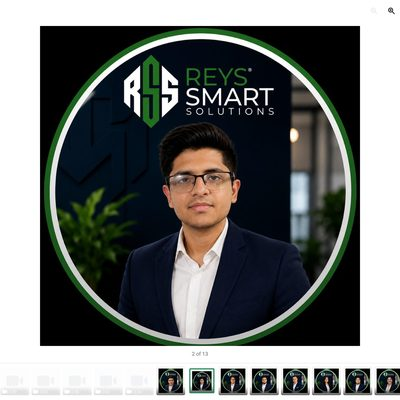
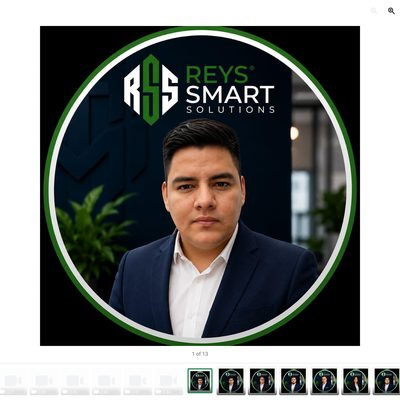
fix(team): correct all photo-name assignments per client verification
Client confirmed each photo. Corrections made:
- maikel.jpg → was Doris Bonilla (photo says Maikel but it's her)
- carolina-dominguez.jpg → was Nelson Mejivar
- nelson-mejivar.jpg → was Diego Quijada
- diego-quijada.jpg → was Judit Mejivar
- fatima-santos.jpg → was Carolina Dominguez
- eduardo-peron.jpg → was Abigail Gochez
- christopher-aaron.jpg → was Eduardo Peron (civilian clothes)

Removed duplicates and incorrect photos.
Maikel, Jacob, Christopher, Fatima: no photo → avatar with initials.
Jacob Mejivar photo still missing.

diff --git a/src/components/landing/TeamCarousel.tsx b/src/components/landing/TeamCarousel.tsx
@@ -8,17 +8,18 @@ import { ChevronLeft, ChevronRight, Star } from 'lucide-react';
 const TEAM = [
   { name: 'Reys Michel', role: 'Presidente y Cofundador', roleEn: 'President & Co-Founder', photo: '/team/reys-michel.jpg', featured: true },
   { name: 'Yolanda Perón', role: 'Vicepresidenta y Cofundadora', roleEn: 'Vice President & Co-Founder', photo: '/team/yolanda-peron.jpg', featured: true },
-  { name: 'Nelson Mejivar', role: 'Subdirector General', roleEn: 'General Sub-Director', photo: '/team/member-1.jpg' },
+  { name: 'Nelson Mejivar', role: 'Subdirector General', roleEn: 'General Sub-Director', photo: '/team/nelson-mejivar.jpg' },
   { name: 'Vladimir Cáceres', role: 'Subdirector Comercial', roleEn: 'Commercial Sub-Director', photo: '/team/vladimir-caceres.jpg' },
-  { name: 'Diego Quijada', role: 'Subdirector de Ventas', roleEn: 'Sales Sub-Director', photo: '/team/member-2.jpg' },
-  { name: 'Judit Mejivar', role: 'Subdirectora de Procesos', roleEn: 'Process Sub-Director', photo: '/team/member-3.jpg' },
-  { name: 'Maikel', role: 'El Arquitecto de las Finanzas', roleEn: 'The Finance Architect', photo: '/team/member-4.jpg' },
-  { name: 'Carolina Domínguez', role: 'Subdirectora de Capacitaciones y RRHH', roleEn: 'Training & HR Sub-Director', photo: '/team/member-5.jpg' },
-  { name: 'Jacob Mejivar', role: 'Depto. de Agencias de Crédito', roleEn: 'Credit Agencies Dept.', photo: '/team/member-6.jpg' },
-  { name: 'Christopher Aaron', role: 'Depto. de Acreedores', roleEn: 'Creditors Dept.', photo: '/team/member-7.jpg' },
-  { name: 'Fátima Santos', role: 'Depto. de Procesos', roleEn: 'Process Dept.', photo: '/team/member-8.jpg' },
-  { name: 'Abigail Gochez', role: 'Depto. de Procesos', roleEn: 'Process Dept.', photo: '/team/member-9.jpg' },
-  { name: 'Doris Bonilla', role: 'Depto. de Redes Sociales y Eventos', roleEn: 'Social Media & Events Dept.', photo: '/team/member-10.jpg' },
+  { name: 'Diego Quijada', role: 'Subdirector de Ventas', roleEn: 'Sales Sub-Director', photo: '/team/diego-quijada.jpg' },
+  { name: 'Judit Mejivar', role: 'Subdirectora de Procesos', roleEn: 'Process Sub-Director', photo: '/team/judit-mejivar.jpg' },
+  { name: 'Maikel', role: 'El Arquitecto de las Finanzas', roleEn: 'The Finance Architect', photo: null },
+  { name: 'Carolina Domínguez', role: 'Subdirectora de Capacitaciones y RRHH', roleEn: 'Training & HR Sub-Director', photo: '/team/carolina-dominguez.jpg' },
+  { name: 'Jacob Mejivar', role: 'Depto. de Agencias de Crédito', roleEn: 'Credit Agencies Dept.', photo: null },
+  { name: 'Christopher Aaron', role: 'Depto. de Acreedores', roleEn: 'Creditors Dept.', photo: null },
+  { name: 'Fátima Santos', role: 'Depto. de Procesos', roleEn: 'Process Dept.', photo: null },
+  { name: 'Abigail Gochez', role: 'Depto. de Procesos', roleEn: 'Process Dept.', photo: '/team/abigail-gochez.jpg' },
+  { name: 'Doris Bonilla', role: 'Depto. de Redes Sociales y Eventos', roleEn: 'Social Media & Events Dept.', photo: '/team/doris-bonilla.jpg' },
+  { name: 'Eduardo Perón', role: 'Relaciones Comunitarias y Enlace Bilingüe', roleEn: 'Community Relations & Bilingual Liaison', photo: '/team/eduardo-peron.jpg' },
 ];
 
 export function TeamCarousel() {
